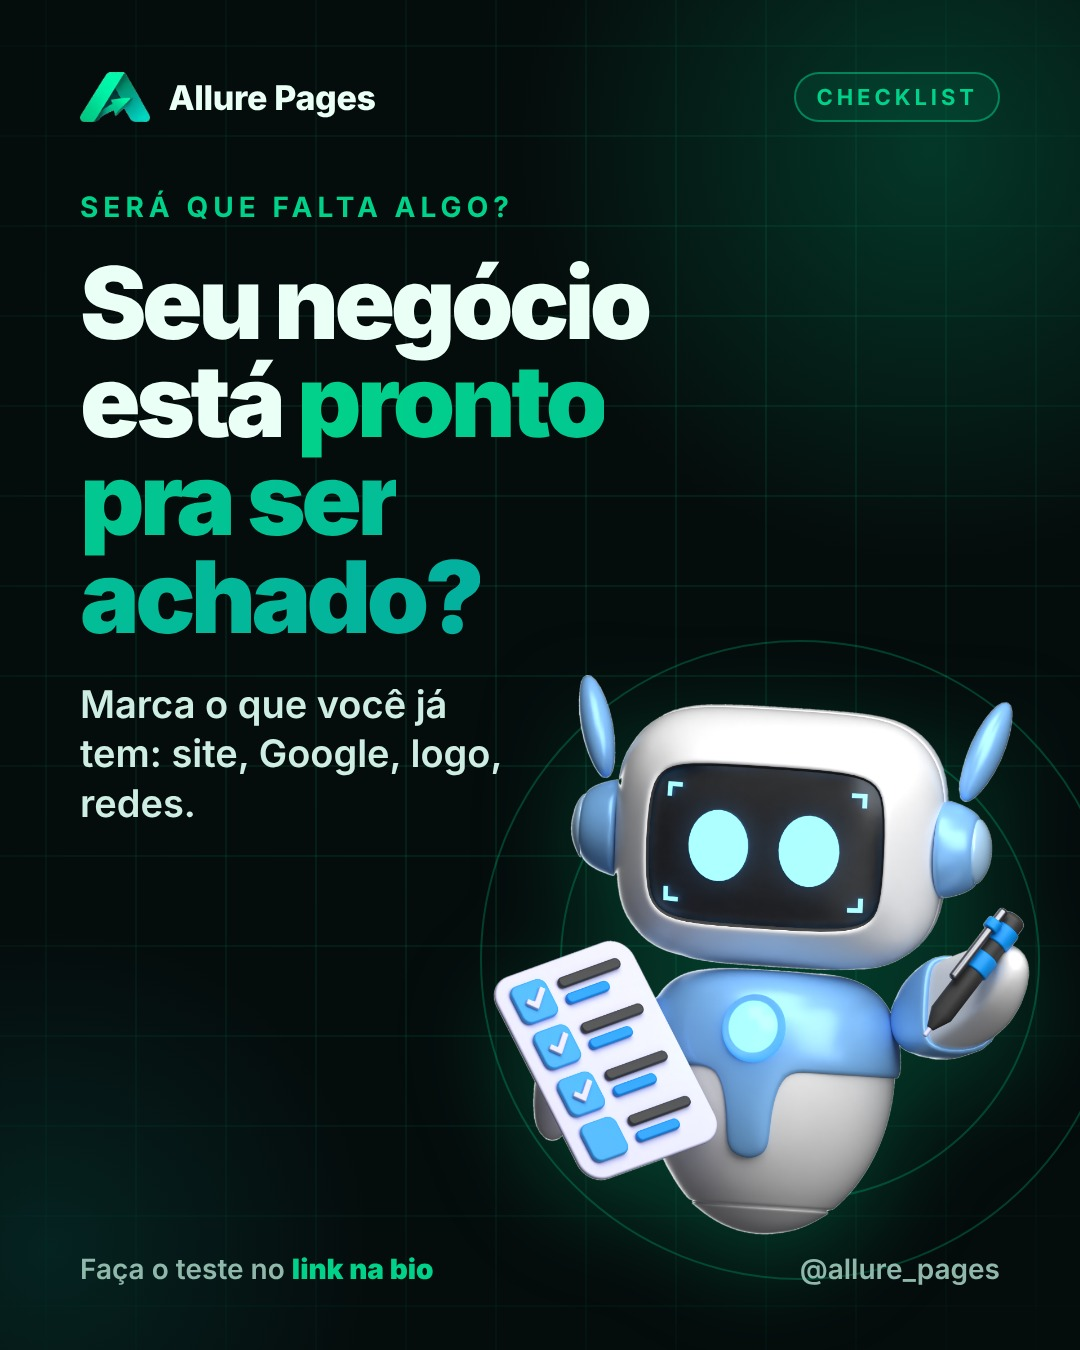
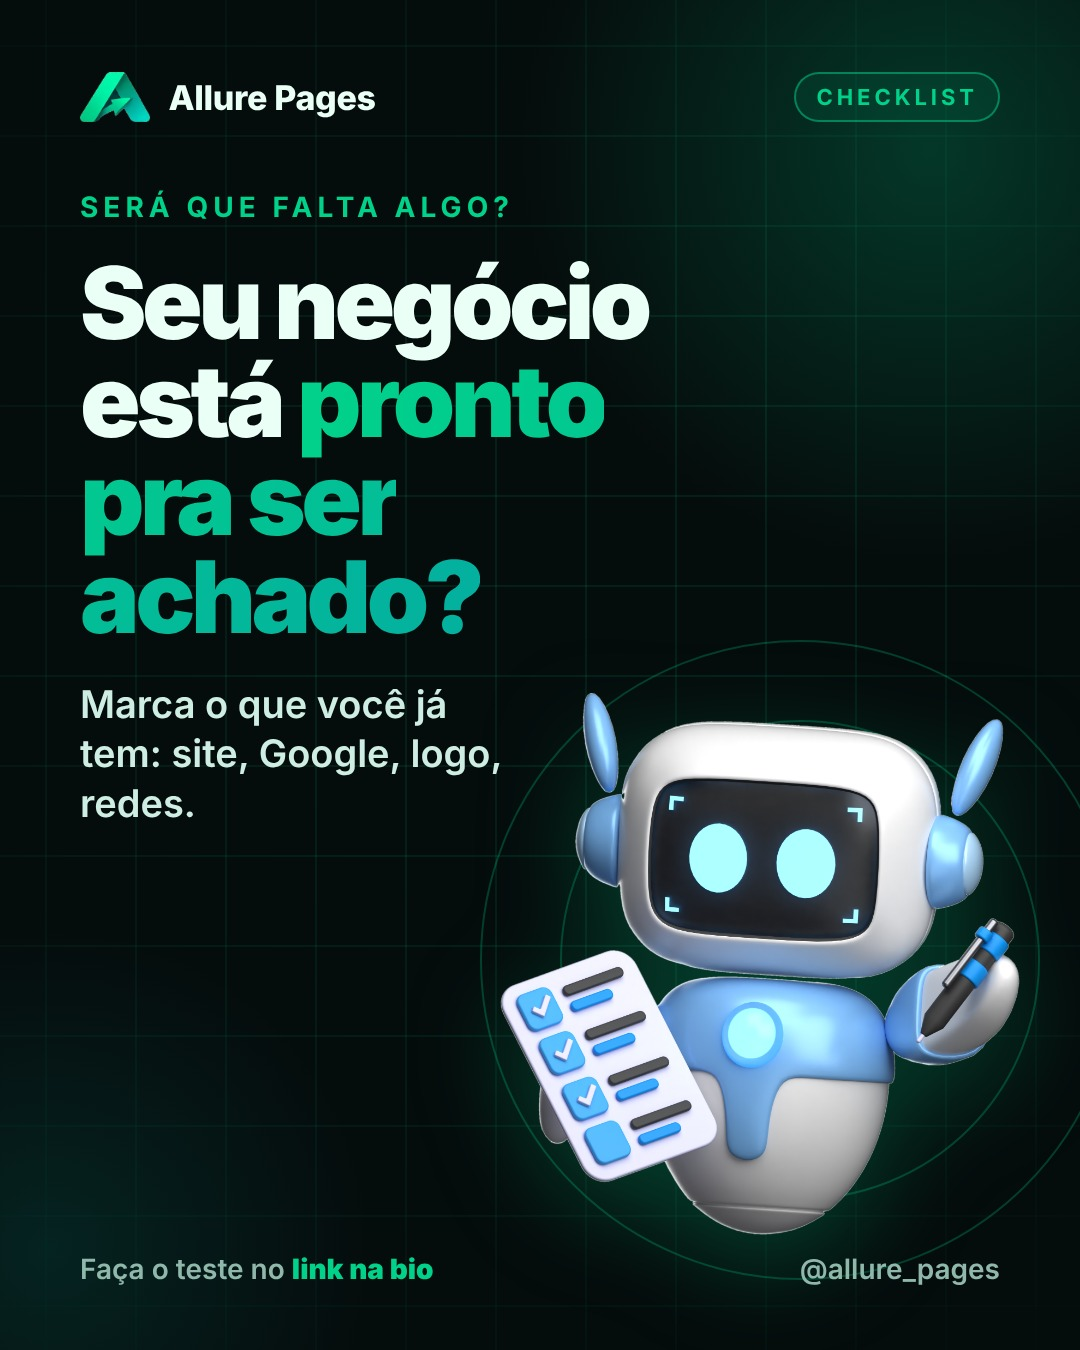
Artes padronizadas com robos

Changed region(s): [[0.4583, 0.4978, 0.9778, 0.8711], [0.7639, 0.8711, 0.7944, 0.9022], [0.6722, 0.84, 0.7028, 0.8711]]

diff --git a/ig/templates/m3.css b/ig/templates/m3.css
@@ -1,0 +1,9 @@
+.m{position:absolute;filter:drop-shadow(0 30px 50px rgba(1,210,138,.25))}
+.rb{position:absolute;right:60px;bottom:115px;width:520px;height:580px;display:flex;align-items:flex-end;justify-content:center}
+.rb img{max-width:100%;max-height:100%;object-fit:contain;filter:drop-shadow(0 30px 50px rgba(1,210,138,.25))}
+.sel{position:absolute;right:50px;bottom:640px;height:190px;transform:rotate(12deg);filter:drop-shadow(0 20px 30px rgba(0,0,0,.4))}
+.mw{position:absolute;left:80px;top:190px;width:900px;display:flex;flex-direction:column}
+.mw h1{font-size:100px;line-height:.98}
+.mw p{margin-top:34px;font-size:38px;line-height:1.3;max-width:440px}
+.ring{position:absolute;border-radius:50%;border:2px solid rgba(1,210,138,.25);width:640px;height:640px;right:-40px;bottom:70px}
+.ring.b{width:480px;height:480px;right:40px;bottom:150px}

diff --git a/ig/templates/mgen3.py b/ig/templates/mgen3.py
@@ -1,0 +1,22 @@
+CSS='''.m{position:absolute;filter:drop-shadow(0 30px 50px rgba(1,210,138,.25))}
+.rb{position:absolute;right:60px;bottom:115px;width:520px;height:580px;display:flex;align-items:flex-end;justify-content:center}
+.rb img{max-width:100%;max-height:100%;object-fit:contain;filter:drop-shadow(0 30px 50px rgba(1,210,138,.25))}
+.sel{position:absolute;right:50px;bottom:640px;height:190px;transform:rotate(12deg);filter:drop-shadow(0 20px 30px rgba(0,0,0,.4))}
+.mw{position:absolute;left:80px;top:190px;width:900px;display:flex;flex-direction:column}
+.mw h1{font-size:100px;line-height:.98}
+.mw p{margin-top:34px;font-size:38px;line-height:1.3;max-width:440px}
+.ring{position:absolute;border-radius:50%;border:2px solid rgba(1,210,138,.25);width:640px;height:640px;right:-40px;bottom:70px}
+.ring.b{width:480px;height:480px;right:40px;bottom:150px}
+'''
+open('m3.css','w').write(CSS)
+H='<html><head><meta charset=utf-8><link rel=stylesheet href=base.css><link rel=stylesheet href=q.css><link rel=stylesheet href=m3.css></head><body><div class=grid></div><div class=glow></div><div class=glow2></div>%s</body></html>'
+def m(n,tag,k,h1,p,foot,img,selo=False):
+    s='<img class=sel src=selo-desconto_t.png>' if selo else ''
+    body=f'<div class=top><div class=brand><img src=allure-icon.png>Allure Pages</div><div class=tag>{tag}</div></div><div class=ring></div><div class="ring b"></div><div class=rb><img src={img}_t.png></div>{s}<div class=mw><div class=k>{k}</div><h1>{h1}</h1><p>{p}</p></div><div class=foot><span>{foot}</span><span>@allure_pages</span></div>'
+    open(f'{n}.html','w').write(H%body)
+m('m01','Curiosidade','Boa ideia','Sua melhor<br>ideia ainda<br><span class=g>não foi<br>encontrada.</span>','Ser visto vem antes de ser escolhido.','Descubra no <b>link na bio</b>','robo-ideia')
+m('m02','Pensa nisso','Tic tac','Seu cliente<br>decide em<br><span class=g>5 segundos.</span>','O que ele vê quando pesquisa por você?','Veja no <b>link na bio</b>','robo-relogio')
+m('m03','Checklist','Será que falta algo?','Seu negócio<br>está <span class=g>pronto<br>pra ser<br>achado?</span>','Marca o que você já tem: site, Google, logo, redes.','Faça o teste no <b>link na bio</b>','robo-checklist')
+m('m04','Fica a reflexão','Conta a sua','Seu negócio<br>tem história.<br><span class=g>Alguém já<br>leu?</span>','Quem não aparece, não é lembrado.','Comece no <b>link na bio</b>','robo-lapis')
+m('m06','Lançamento','Condição especial','Desconto de<br><span class=g>lançamento</span><br>pra você<br>sair na frente.','Os primeiros clientes da Allure têm condição especial.','Chama no <b>direct</b>','robo-presente',True)
+m('m08','Sobre nós','Prazer','Somos a<br><span class=g>Allure<br>Pages.</span>','Tecnologia e marketing pra pequenos negócios aparecerem e crescerem.','Conheça no <b>link na bio</b>','robo-tchau')
